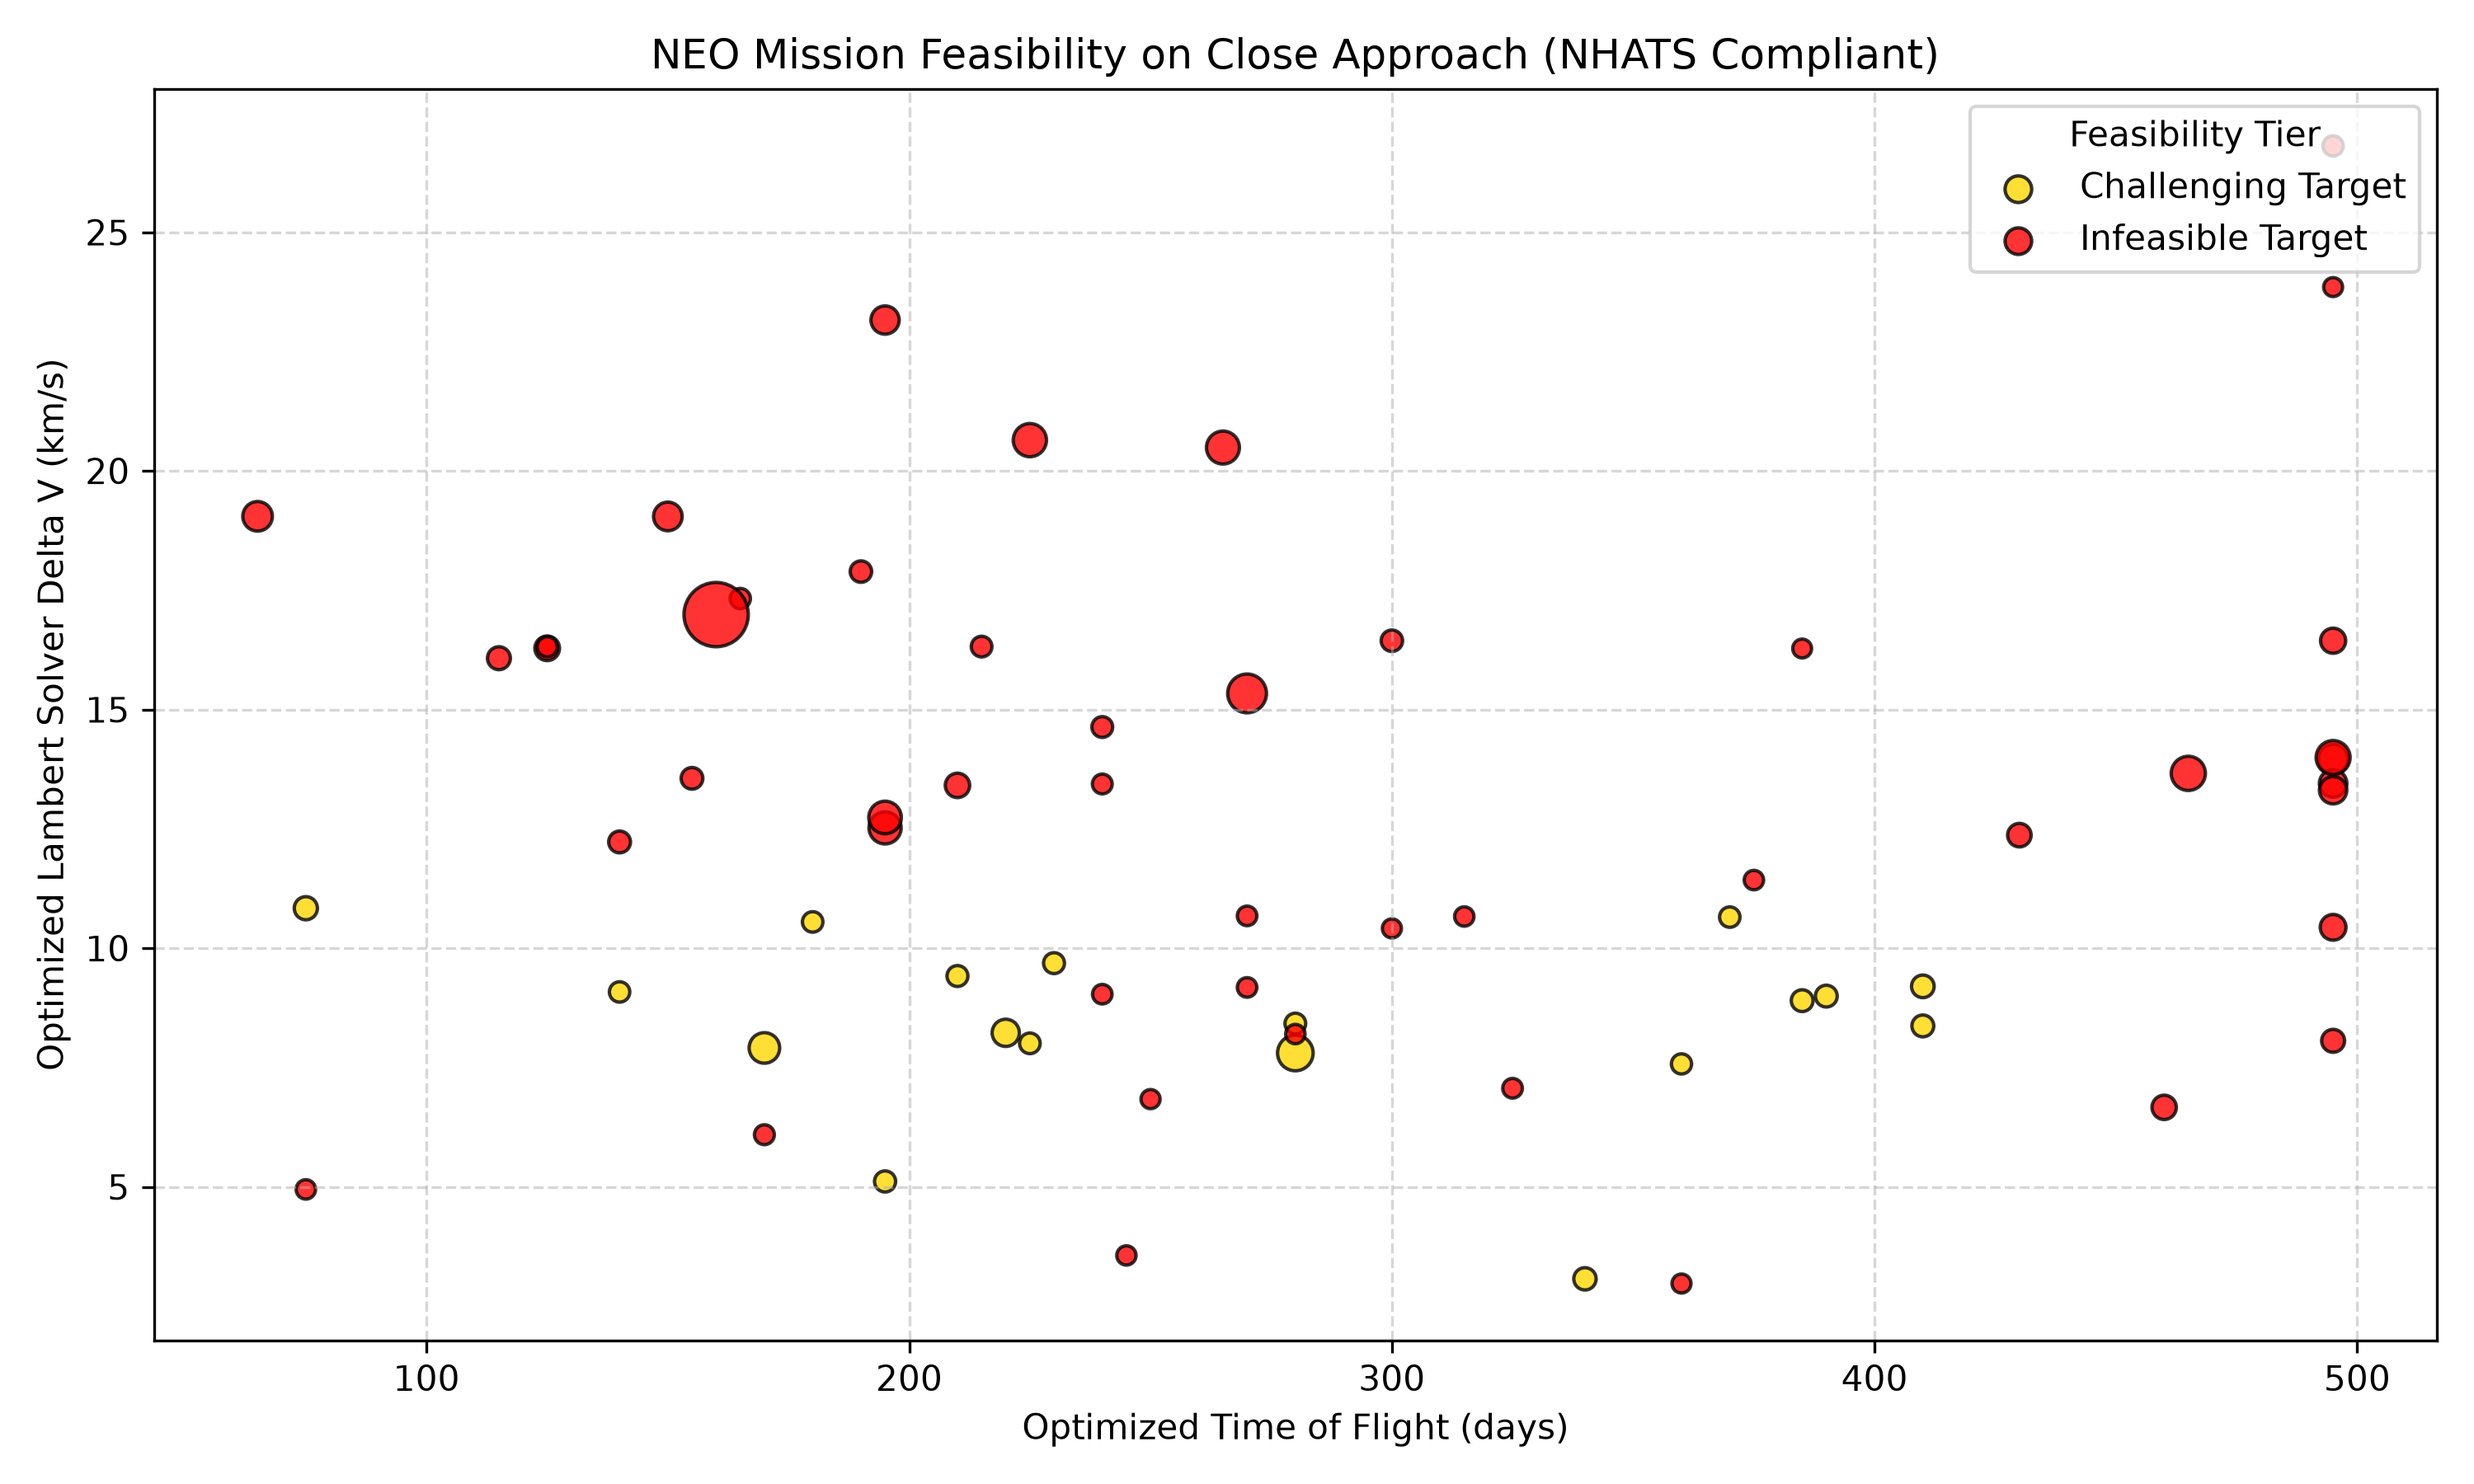
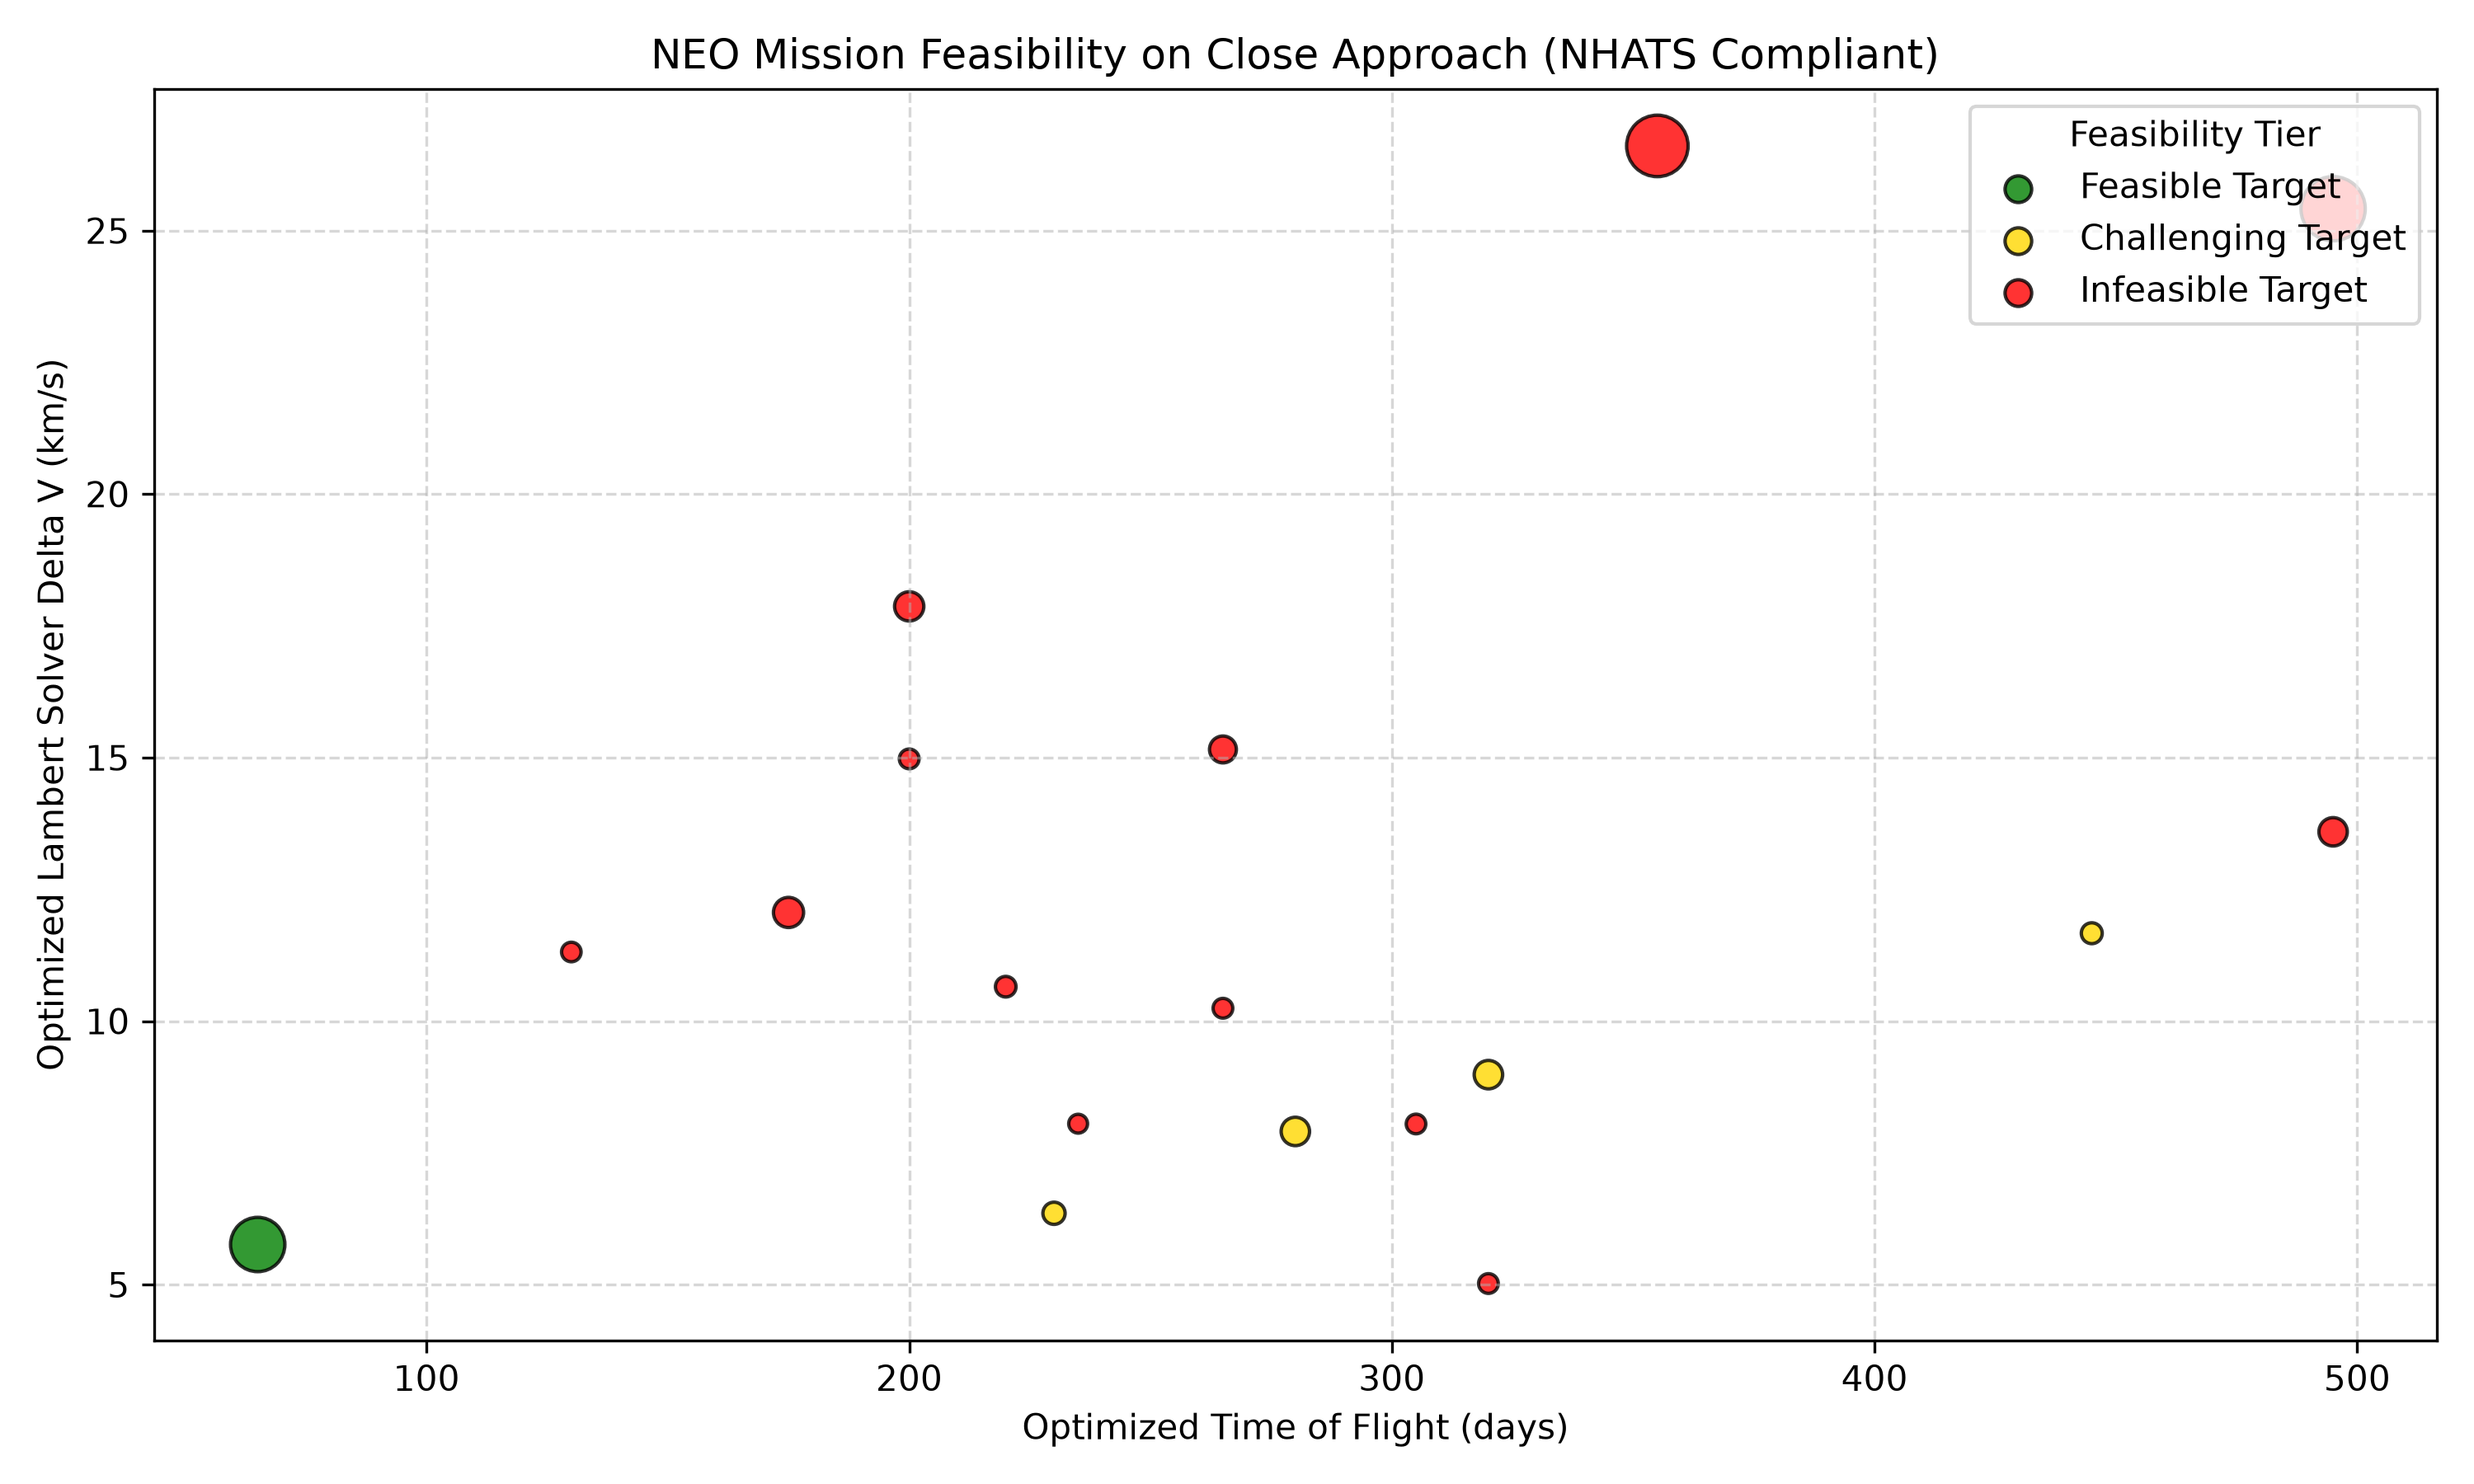
Edited the citations to make sure they are correct

diff --git a/Main_Orbital.py b/Main_Orbital.py
@@ -255,7 +255,7 @@ async def find_neo(Check_Input_Data):
         Argument_of_Perihelion_List.append(
             NEO_Data["orbital_data"]["perihelion_argument"]
         )
-        Designation_List.append(NEO_Data.get("designation", NEO_Data["id"]))
+        Designation_List.append(NEO_Data.get("Designation", NEO_Data["id"]))
 
     NEO_Data = {
         "Date:": Date_List,

diff --git a/Horizons_NEO.py b/Horizons_NEO.py
@@ -16,7 +16,7 @@ def NEO_Horizons_Vectors(
 
     try:
         obj = Horizons(
-            id=str(designation) , id_type="designation", location="500@10", epochs=epochs
+            id='DES=' + str(designation) + ';', id_type="smallbody", location="500@10", epochs=epochs
         )
         vectors = obj.vectors()
     except Exception as error:
